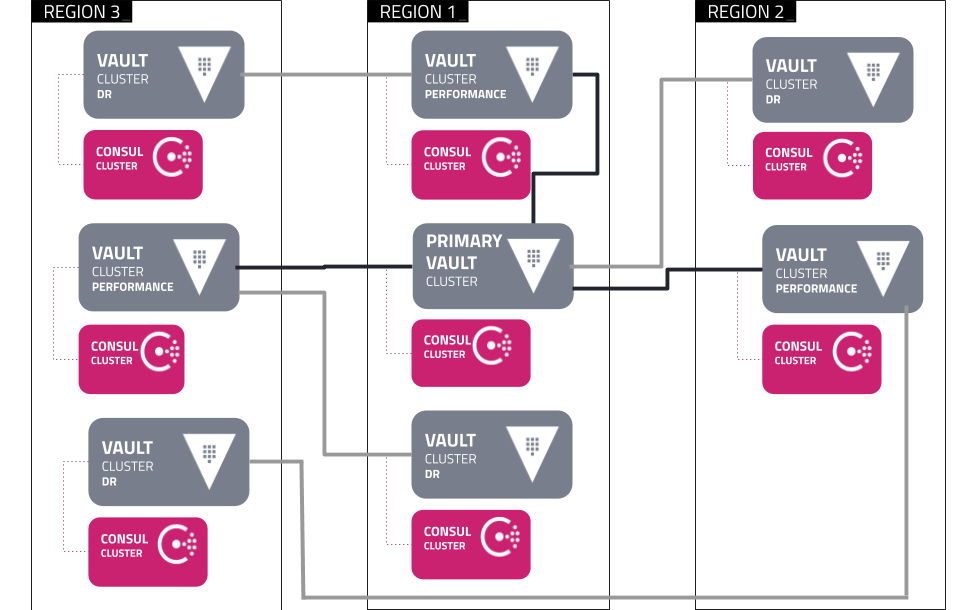
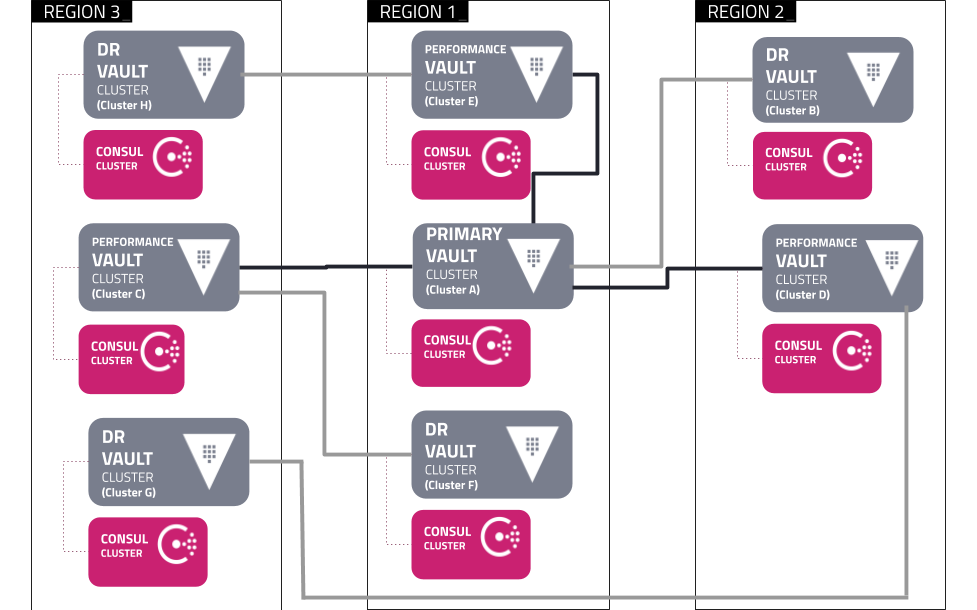
further updates as discussions continue

diff --git a/website/source/guides/operations/reference-architecture.html.md b/website/source/guides/operations/reference-architecture.html.md
@@ -120,10 +120,11 @@ In this scenario, the nodes in the Vault and associated Consul clusters are host
 ##### Reference Diagram Resilience against Region Failure
 ![Reference Diagram](/img/vault-ra-full-replication_region.png)
 
-In this scenario, the clusters are replicated to guard against a full region failure. There is one Primary Vault cluster with a DR cluster and three Performance Replicas each with a DR cluster of its own in a different Region. Each cluster has its associated Consul cluster for storage backend.  
-In this setup it is recommended that the Primary Vault cluster be only used for handling replication and cluster leadership and should not be used for client connections of secrets. All client connections should go through the associated regional Performance Replica.
-This architecture allows for n-2 at the region level provided all secrets and secret engines are replicated across all clusters.
-Failure of the full Region 1 would require the DR cluster of the primary to be promoted to primary and the DR cluster of the Region 1 Performance replica to be promoted to a PR. Once this was done the Vault solution would be fully functional with some loss of redundancy till the Region 1 was restored. Applications would not have to re-authenticate as the DR cluster for each failed cluster would contain all leases and tokens.
+In this scenario,the clusters are replicated to guard against a full region failure. There is one Primary Vault cluster(cluster A) with its DR cluster (cluster B) and three Performance Replicas(clusters C, D, and E) each with a DR cluster of its own (cluster F, G, H)  in a different Region. Each cluster has its associated Consul cluster for storage backend.  
+In this setup the Primary Vault cluster can be used for handling replication and cluster leadership only and not used for client connections of secrets, or it can serve secrets if desired. All client connections should go through the associated regional Performance Replica.  
+This architecture allows for n-2 at the region level provided all secrets and secret engines are replicated across all clusters.   
+Failure of the full Region 1 would require the DR cluster of the primary to be promoted to primary and the DR cluster of the Region 1 Performance replica to be promoted to a PR. Once this was done the Vault solution would be fully functional with some loss of redundancy till the Region 1 was restored.   Applications would not have to re-authenticate as the DR cluster for each failed cluster would contain all leases and tokens.
+
 ##### Reference Diagram Resilience against Cluster Failure
 ![Reference Diagram](/img/vault-ra-full-replication.png)
 This solution has full resilience at a cluster level, but does not guard against region failure as the DR clusters for the Performance replicas are in the same region. There are certain use-cases where this is the preferred method where data cannot be replicated to other regions due to governance restrictions such as GDPR. Also some infrastructure frameworks may not have the ability to route application traffic to different Regions.
